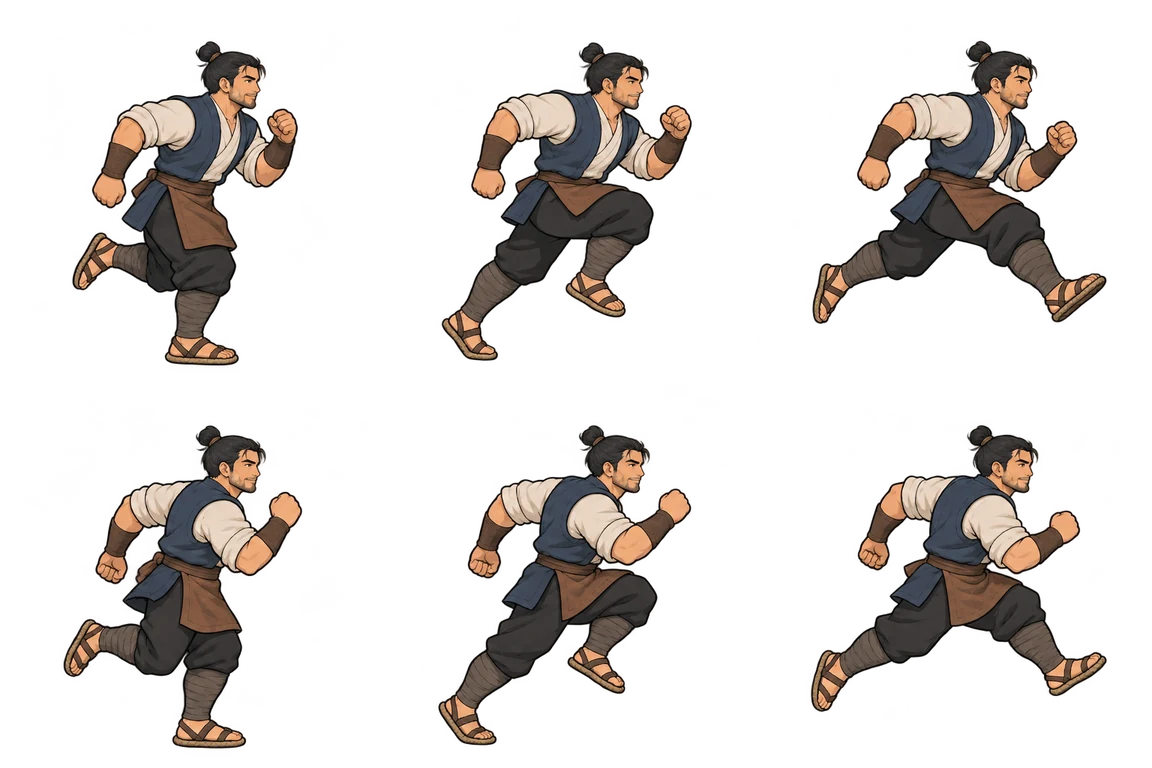
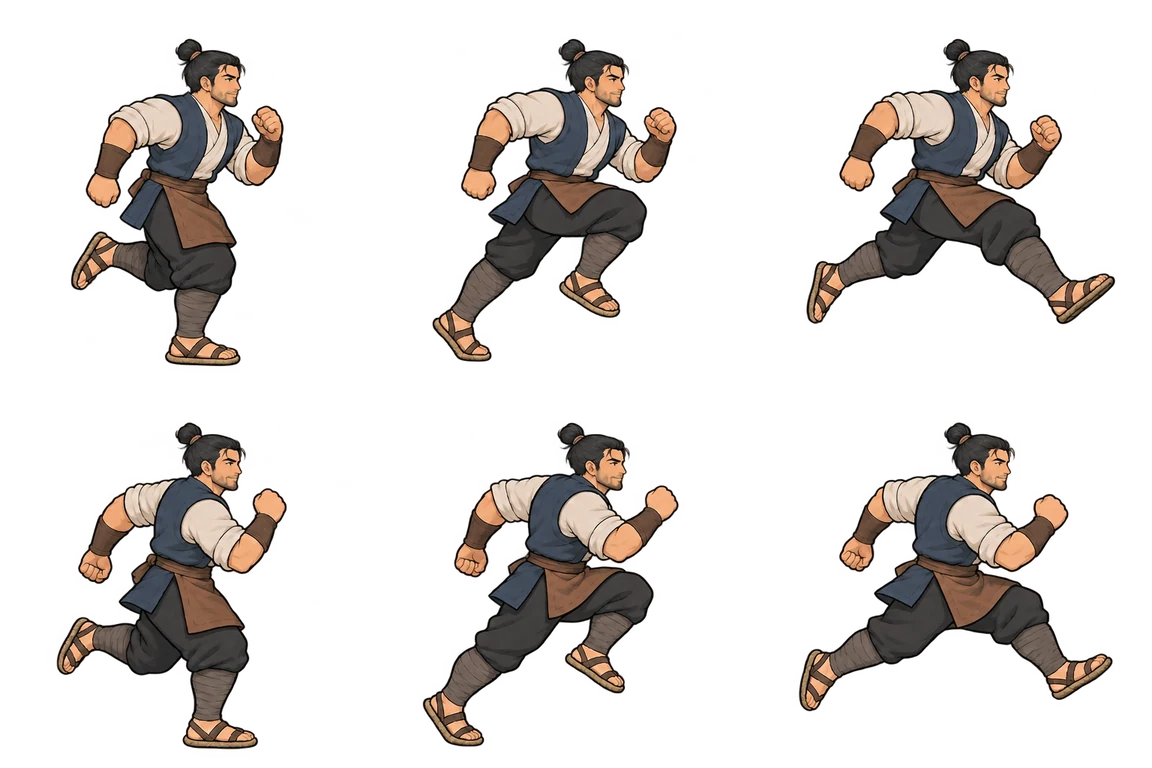
Import Mountain's redrawn run (R9, HERO-MTN-RUN_v2): legs and arms swap (#63)
Claude-Session: https://claude.ai/code/session_0139SQ3paqJydhynh44z9WB6

diff --git a/tools/art/import_art.py b/tools/art/import_art.py
@@ -48,6 +48,8 @@ APPROVED = {
     "HERO-WND-WALK": "HERO-WND-WALK_v2.png",
     "HERO-FIR-WALK": "HERO-FIR-WALK_v2.png",
     "HERO-RIV-WALK": "HERO-RIV-WALK_v4.png",
+    # Run cycles with the legs and arms swapped in the second half (R9-R16, 2026-11-19).
+    "HERO-MTN-RUN": "HERO-MTN-RUN_v2.png",
 }
 
 HEROES = {

diff --git a/Guo_tests.md b/Guo_tests.md
@@ -1826,3 +1826,36 @@ pnpm dev
 5. **Winch spot:** in phase 3 ("Open the Sluice") the yellow ring at the right has a handwheel on it and the label "Sluice winch 0/3" above the three circles. Each crank he finishes fills a circle and the label counts up (1/3, 2/3); hit him while he cranks to interrupt it.
 6. **Languages:** in German the label reads "Schleusenwinde", in Chinese "水闸绞盘".
 7. **After the surrender:** the ring, the handwheel and the label are all gone.
+
+## Mountain's run with the legs and arms swapping (2026-11-19)
+
+What's new: Mountain's run uses the redrawn sheet `HERO-MTN-RUN_v2.png` (R9). In the second half of the run the other leg and the other arm come forward, so the run alternates instead of looking like a skip. Mountain's Stage 3 run scale moved from 0.875 to 0.885 to match the new base run (it is measured against it). The other seven runs are unchanged until their `_v2` sheets arrive.
+
+### Get and start the build
+
+To test the branch before it is merged:
+
+```powershell
+cd C:\AI\Claude\FightForPeace
+git fetch origin claude/project-thread-uc3buf
+git checkout claude/project-thread-uc3buf
+git reset --hard origin/claude/project-thread-uc3buf
+pnpm install
+pnpm dev
+```
+
+After it is merged:
+
+```powershell
+cd C:\AI\Claude\FightForPeace
+git checkout main
+git pull origin main
+pnpm install
+pnpm dev
+```
+
+### Test steps
+
+1. **Run:** play Stage 1 as Mountain, double-tap and hold **D** (or **A**) to run. The legs and the arms alternate: left leg and right arm forward, then right leg and left arm.
+2. **Size:** run, then stop: Mountain keeps the same size when switching between run, walk and idle.
+3. **Stage 3 outfit:** in a Stage 3 room (Lab, F1, Arena list), run as Mountain: same size as the Stage 3 walk and idle.
